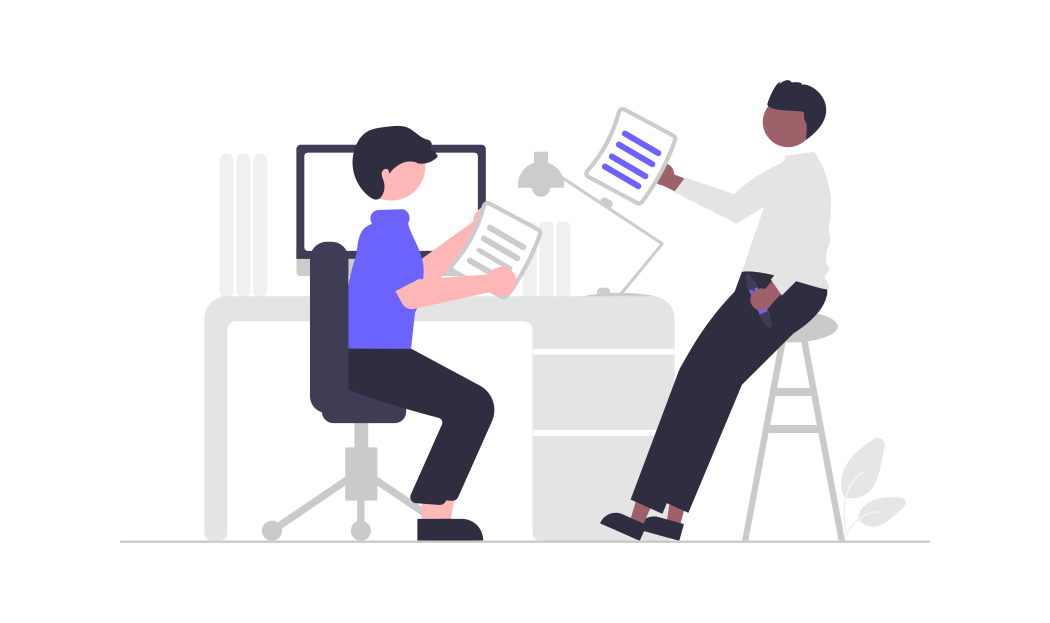
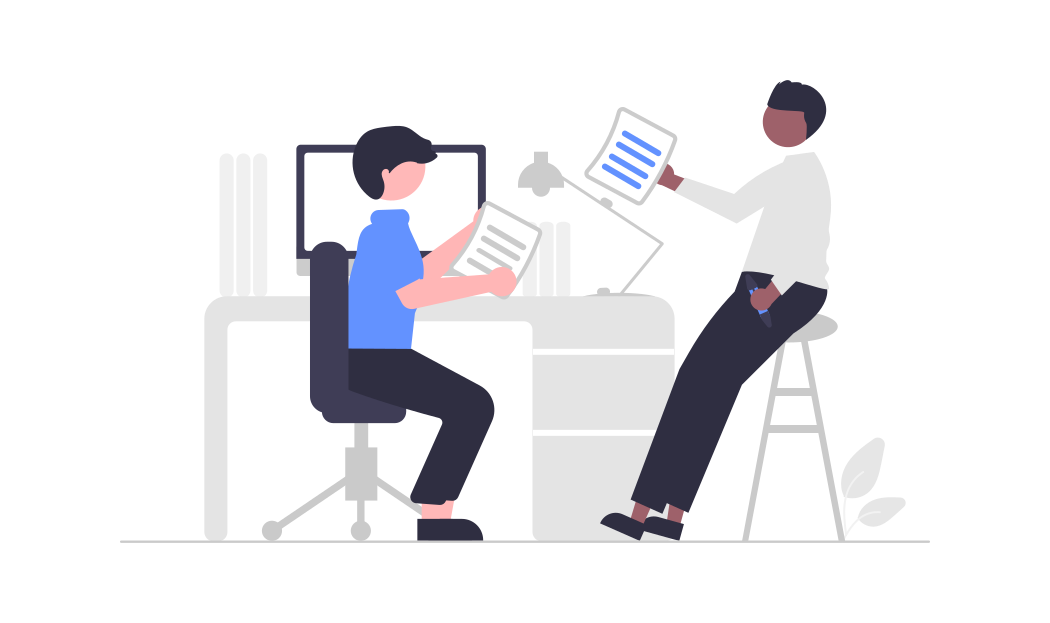
change photo color and change the border and button focus color

Changed region(s): [[0.3048, 0.3355, 0.4267, 0.5795], [0.579, 0.2135, 0.64, 0.305]]

diff --git a/lib/main.dart b/lib/main.dart
@@ -55,6 +55,7 @@ class _LoginPageState extends State<LoginPage> {
             Padding(
               padding: const EdgeInsets.symmetric(horizontal: 35, vertical: 10),
               child: TextFormField(
+                keyboardType: TextInputType.text,
                 decoration: const InputDecoration(
                     prefixIcon: Icon(Icons.person),
                     hintText: "Enter Your Name",
@@ -65,8 +66,9 @@ class _LoginPageState extends State<LoginPage> {
             Padding(
               padding: const EdgeInsets.symmetric(horizontal: 35, vertical: 5),
               child: TextFormField(
+                keyboardType: TextInputType.text,
                 decoration: const InputDecoration(
-                    prefixIcon: Icon(Icons.security),
+                    prefixIcon: Icon(Icons.security,),
                     hintText: "Enter Your Password",
                     labelText: "Enter Your Password",
                     border: OutlineInputBorder()),
@@ -80,11 +82,9 @@ class _LoginPageState extends State<LoginPage> {
                       padding: MaterialStateProperty.all(
                           const EdgeInsets.symmetric(vertical: 12)),
                       backgroundColor:
-                          MaterialStateProperty.all(Colors.deepPurple),
+                          MaterialStateProperty.all(Colors.blueAccent),
                       elevation: MaterialStateProperty.all(3)),
-                  onPressed: () {
-                    Navigator.of(context).pushNamed("/Home");
-                  },
+                  onPressed: () => Navigator.of(context).pushNamed("/Home"),
                   child: const Text(
                     "Log In",
                     style: TextStyle(fontSize: 20),
@@ -102,9 +102,7 @@ class _LoginPageState extends State<LoginPage> {
                     "Get help with loggin in.",
                     style: TextStyle(fontSize: 12, fontWeight: FontWeight.bold),
                   ),
-                  onTap: () {
-                    Navigator.of(context).pushNamed("/error");
-                  },
+                  onTap: () => Navigator.of(context).pushNamed("/error"),
                 ),
               ],
             ),

diff --git a/lib/page/error.dart b/lib/page/error.dart
@@ -6,7 +6,10 @@ class ErrorPage extends StatelessWidget {
   @override
   Widget build(BuildContext context) {
     return Scaffold(
-      appBar: AppBar(title: const Text("Error"),backgroundColor: Colors.deepPurple,),
+      appBar: AppBar(
+        title: const Text("Error"),
+        backgroundColor: Colors.blueAccent,
+      ),
       body: const Center(
         child: Text("Error"),
       ),

diff --git a/lib/page/home.dart b/lib/page/home.dart
@@ -7,7 +7,7 @@ class HomePage extends StatelessWidget {
   Widget build(BuildContext context) {
     return Scaffold(
       appBar: AppBar(
-        backgroundColor: Colors.deepPurple,
+        backgroundColor: Colors.blueAccent,
         title: const Text("Home"),
       ),
       body: const Center(
